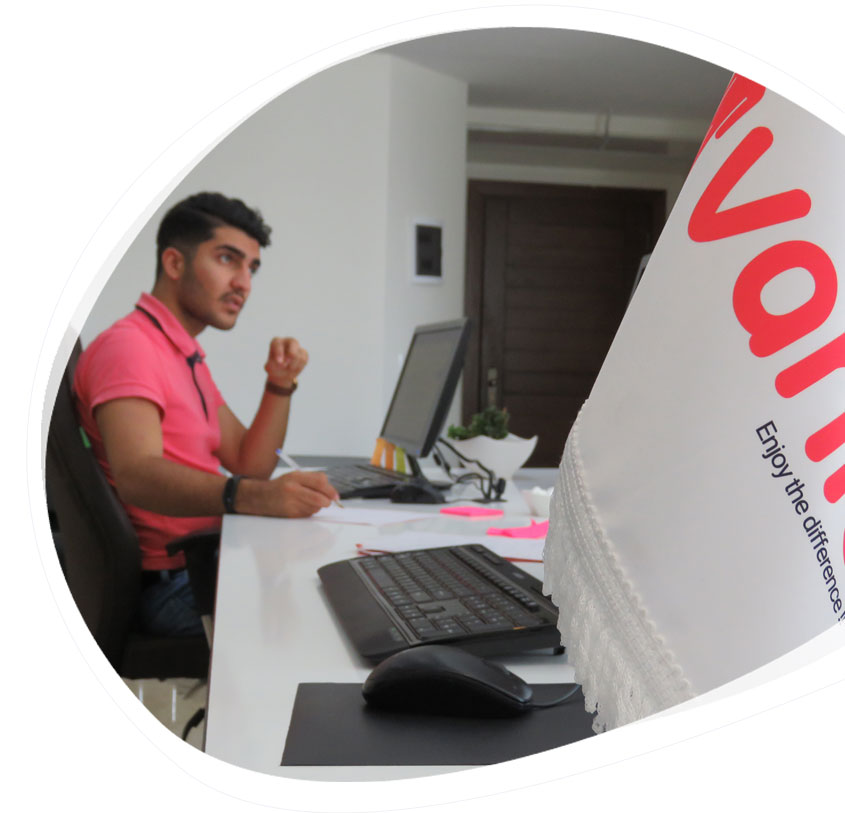
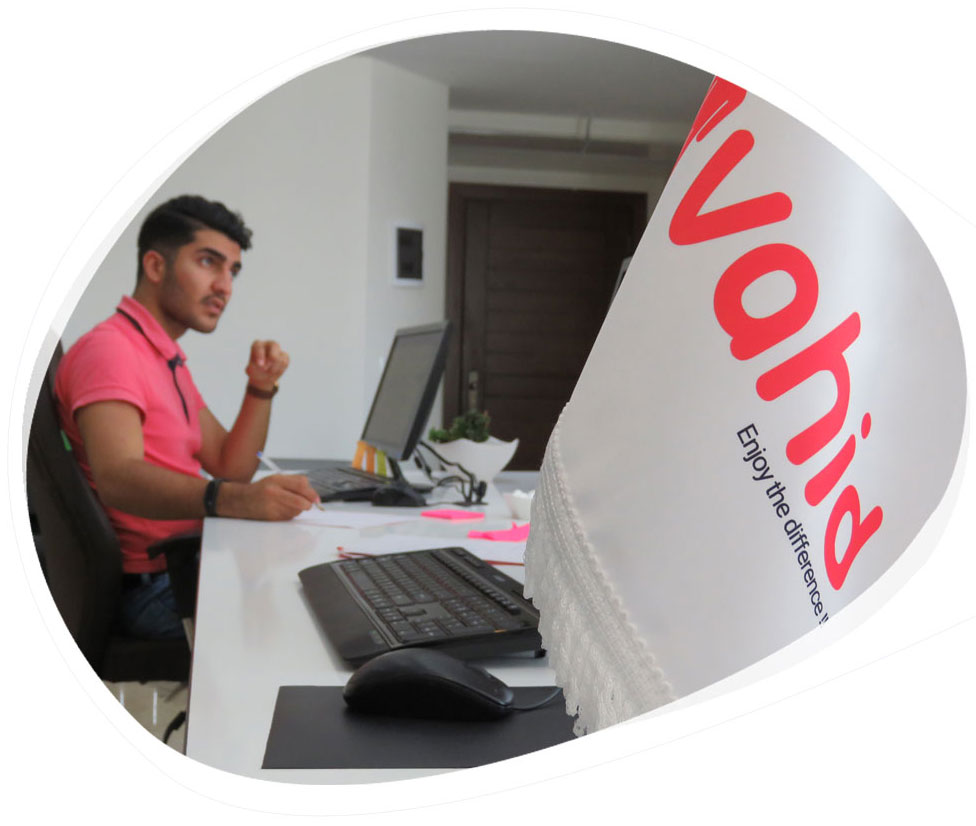
image was changed

diff --git a/src/assets/css/styles.scss b/src/assets/css/styles.scss
@@ -360,8 +360,7 @@ i{
     margin-bottom: 300px;
     &__img{
 		position: absolute;
-		right: -19%;
-		transform: translateX(19% );
+		transform: translateX(55% );
         &__lable{
             display: flex;
             position: absolute;
@@ -1479,7 +1478,6 @@ i{
     .select_team{
         &__img{
 			position: relative;
-			right: 0;
 			transform: translateX(0);
 		}
 		&__content{
@@ -1561,8 +1559,15 @@ i{
 	//Select_team Section
 	.select_team{
 		&__img__lable{
-			.content{
-		  margin-left: 50px;
+			left: 0;
+			bottom: 20px;
+			.icon{
+				margin-right: 5px;
+			}
+			.lable{
+				padding-right: 10px;
+				margin-left: 80px;
+				font-size: 18px;
 		}
 	  }
 	}
@@ -1699,17 +1704,6 @@ i{
 	section{
 		margin-left: 10px;
 		margin-right: 10px;
-	}
-	.select_team{
-		&__img{
-			&__lable{
-				bottom: 0;
-				.lable{
-					margin-left: 20px;
-					font-size: 18px;
-				}
-			}
-		}
 	}
 	.services_card{
 		&__wrapper{
